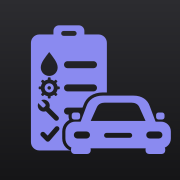
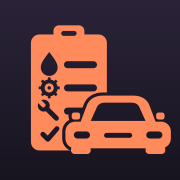
feat(web): Only Tools look (warm palette, Nunito, car orange)
The theme tokens now mirror only-tools-core/packages/ui/only-tools.css, so CarLog
matches the Only Tools landing and admin: warm paper background, plum ink, car orange
accent, Nunito, Only Tools radii and shadows. Category colours, hero tints, bar glass
and the app icons follow the same palette.

Changed region(s): [[0.1667, 0.1389, 0.9722, 0.8611]]

diff --git a/apps/web/src/theme/tokens.ts b/apps/web/src/theme/tokens.ts
@@ -1,48 +1,48 @@
-// iOS semantic colours (Human Interface Guidelines system palette) with CarLog's
-// indigo kept as the tint. Surfaces follow the "inset grouped" model: a grouped
-// background with flat white/charcoal cells on top, separated by translucent
-// hairlines rather than borders and shadows.
+// Only Tools design tokens (direction B "Конструктор"), CarLog's accent is the car orange.
+// Mirrors only-tools-core/packages/ui/only-tools.css: change colours there first, then here,
+// so every Only Tools app keeps one style. MUI needs literal colours (it derives hover and
+// alpha shades from them), which is why they are copied rather than read from CSS variables.
 export const tokens = {
   color: {
-    accent: '#5B5BD6',
-    accentHover: '#4A4AC4',
+    accent: '#FF7A45',
+    accentHover: '#E8642F',
     light: {
-      bg: '#F2F2F7',                      // systemGroupedBackground
-      surface: '#FFFFFF',                 // secondarySystemGroupedBackground
-      border: 'rgba(60, 60, 67, 0.29)',   // separator
-      fill: 'rgba(120, 120, 128, 0.12)',  // tertiarySystemFill (search fields, segmented tracks)
-      textPrimary: '#000000',
-      textSecondary: 'rgba(60, 60, 67, 0.6)',
-      textTertiary: 'rgba(60, 60, 67, 0.3)',
-      glass: 'rgba(255, 255, 255, 0.78)', // translucent bars
-      tint: '#5B5BD6',
-      success: '#34C759',
-      error: '#FF3B30',
-      warning: '#FF9500',
+      bg: '#FFF8F1',                      // --ot-bg: warm paper
+      surface: '#FFFFFF',                 // --ot-surface
+      border: '#EFE4D8',                  // --ot-line
+      fill: '#FDF3E8',                    // --ot-surface-2 (search fields, segmented tracks)
+      textPrimary: '#2A2140',             // --ot-ink: plum ink
+      textSecondary: '#71698A',           // --ot-mut
+      textTertiary: 'rgba(113, 105, 138, 0.55)',
+      glass: 'rgba(255, 253, 250, 0.92)', // --ot-bar
+      tint: '#FF7A45',                    // --ot-car
+      success: '#1A9A68',
+      error: '#D93A4A',
+      warning: '#C77700',
     },
     dark: {
-      bg: '#000000',
-      surface: '#1C1C1E',
-      border: 'rgba(84, 84, 88, 0.65)',
-      fill: 'rgba(118, 118, 128, 0.24)',
-      textPrimary: '#FFFFFF',
-      textSecondary: 'rgba(235, 235, 245, 0.6)',
-      textTertiary: 'rgba(235, 235, 245, 0.3)',
-      glass: 'rgba(28, 28, 30, 0.78)',
-      tint: '#8A8AF0',                    // indigo lifted for contrast on black
-      success: '#30D158',
-      error: '#FF453A',
-      warning: '#FF9F0A',
+      bg: '#17141F',
+      surface: '#221D2E',
+      border: '#342D44',
+      fill: '#1D1927',
+      textPrimary: '#F3EEFA',
+      textSecondary: '#A59CBA',
+      textTertiary: 'rgba(165, 156, 186, 0.55)',
+      glass: 'rgba(29, 25, 39, 0.92)',
+      tint: '#FF8A5C',
+      success: '#2FD08F',
+      error: '#FF6B7A',
+      warning: '#FFB547',
     },
-    success: '#34C759',
-    error: '#FF3B30',
-    warning: '#FF9500',
+    success: '#1A9A68',
+    error: '#D93A4A',
+    warning: '#C77700',
   },
   // sm: inputs/menus · md: dialogs · lg: cards (inset grouped cells) · sheet: phone bottom sheets
-  radius: { sm: 12, md: 28, lg: 20, sheet: 34 },
+  radius: { sm: 14, md: 24, lg: 20, sheet: 24 },
   shadow: {
-    sm: '0 1px 3px rgba(0,0,0,0.08)',
-    md: '0 8px 24px rgba(0,0,0,0.12), 0 1px 2px rgba(0,0,0,0.06)',
+    sm: '0 4px 14px -10px rgba(42, 33, 64, 0.3)',
+    md: '0 8px 24px -16px rgba(42, 33, 64, 0.35)',
   },
   // Motion: quiet confidence — things arrive decelerating, leave accelerating.
   // Animate only transform/opacity; user-initiated appearance only (never refetches).
@@ -53,9 +53,9 @@ export const tokens = {
       exit: 'cubic-bezier(0.4, 0, 1, 1)',     // accelerate — leaving
     },
   },
-  // System font first (SF Pro on Apple devices); Inter is the bundled fallback elsewhere.
+  // Nunito everywhere (self-hosted via @fontsource/nunito), rounded system fonts as the fallback.
   font: {
-    family: "-apple-system, BlinkMacSystemFont, 'SF Pro Text', 'SF Pro Display', 'Inter', system-ui, 'Segoe UI', Roboto, sans-serif",
-    rounded: "ui-rounded, 'SF Pro Rounded', -apple-system, BlinkMacSystemFont, 'Inter', system-ui, sans-serif",
+    family: "'Nunito', ui-rounded, 'SF Pro Rounded', system-ui, -apple-system, 'Segoe UI', sans-serif",
+    rounded: "'Nunito', ui-rounded, 'SF Pro Rounded', system-ui, -apple-system, sans-serif",
   },
 } as const;

diff --git a/apps/web/src/routes/Vehicle.tsx b/apps/web/src/routes/Vehicle.tsx
@@ -84,7 +84,7 @@ function StatTile({
           flexShrink: 0,
           color: 'primary.main',
           bgcolor: (theme) =>
-            theme.palette.mode === 'dark' ? 'rgba(91,91,214,0.16)' : 'rgba(91,91,214,0.08)',
+            theme.palette.mode === 'dark' ? 'rgba(255,122,69,0.16)' : 'rgba(255,122,69,0.08)',
         }}
       >
         {icon}
@@ -321,8 +321,8 @@ function VehicleDetail({ car }: { car: Car }) {
               sx={{
                 background: (theme) =>
                   theme.palette.mode === 'dark'
-                    ? 'linear-gradient(135deg, rgba(91,91,214,0.20) 0%, rgba(91,91,214,0.05) 55%, transparent 100%)'
-                    : 'linear-gradient(135deg, rgba(91,91,214,0.10) 0%, rgba(91,91,214,0.03) 55%, transparent 100%)',
+                    ? 'linear-gradient(135deg, rgba(255,122,69,0.20) 0%, rgba(255,122,69,0.05) 55%, transparent 100%)'
+                    : 'linear-gradient(135deg, rgba(255,122,69,0.10) 0%, rgba(255,122,69,0.03) 55%, transparent 100%)',
               }}
             >
               <CardContent sx={{ p: { xs: 2.5, sm: 3 }, pb: { xs: 2, sm: 2.5 } }}>
@@ -339,7 +339,7 @@ function VehicleDetail({ car }: { car: Car }) {
                       flexShrink: 0,
                       color: 'primary.main',
                       bgcolor: (theme) =>
-                        theme.palette.mode === 'dark' ? 'rgba(91,91,214,0.18)' : 'rgba(91,91,214,0.10)',
+                        theme.palette.mode === 'dark' ? 'rgba(255,122,69,0.18)' : 'rgba(255,122,69,0.10)',
                     }}
                   >
                     <DirectionsCarFilledIcon sx={{ fontSize: 30 }} />
@@ -570,8 +570,8 @@ function VehicleDetail({ car }: { car: Car }) {
             overflow: 'hidden',
             border: 1,
             borderColor: 'divider',
-            boxShadow: '0 6px 24px rgba(16,24,40,0.18)',
-            bgcolor: (theme) => (theme.palette.mode === 'dark' ? 'rgba(38,42,48,0.72)' : 'rgba(255,255,255,0.82)'),
+            boxShadow: tokens.shadow.md,
+            bgcolor: (theme) => (theme.palette.mode === 'dark' ? tokens.color.dark.glass : tokens.color.light.glass),
             backdropFilter: 'saturate(180%) blur(20px)',
             WebkitBackdropFilter: 'saturate(180%) blur(20px)',
           }}
@@ -596,7 +596,7 @@ function VehicleDetail({ car }: { car: Car }) {
                 // .Mui-selected — a bare `& .Mui-selected` would double-tint the label).
                 '&.Mui-selected': {
                   color: (theme) => (theme.palette.mode === 'dark' ? '#fff' : theme.palette.primary.main),
-                  bgcolor: (theme) => (theme.palette.mode === 'dark' ? 'rgba(255,255,255,0.12)' : 'rgba(91,91,214,0.12)'),
+                  bgcolor: (theme) => (theme.palette.mode === 'dark' ? 'rgba(255,255,255,0.12)' : 'rgba(255,122,69,0.12)'),
                 },
               },
               '& .MuiBottomNavigationAction-label': { fontSize: 10, mt: '3px' },
@@ -634,8 +634,8 @@ function VehicleDetail({ car }: { car: Car }) {
               display: 'grid',
               placeItems: 'center',
               color: 'primary.main',
-              boxShadow: '0 6px 24px rgba(16,24,40,0.18)',
-              bgcolor: (theme) => (theme.palette.mode === 'dark' ? 'rgba(38,42,48,0.72)' : 'rgba(255,255,255,0.82)'),
+              boxShadow: tokens.shadow.md,
+              bgcolor: (theme) => (theme.palette.mode === 'dark' ? tokens.color.dark.glass : tokens.color.light.glass),
               backdropFilter: 'saturate(180%) blur(20px)',
               WebkitBackdropFilter: 'saturate(180%) blur(20px)',
               transition: 'transform .1s ease',

diff --git a/apps/web/src/theme.ts b/apps/web/src/theme.ts
@@ -15,7 +15,7 @@ export const buildTheme = (mode: 'light' | 'dark'): Theme => {
   return createTheme({
     palette: {
       mode,
-      primary: { main: c.tint, dark: mode === 'dark' ? '#7373E0' : tokens.color.accentHover, contrastText: '#FFFFFF' },
+      primary: { main: c.tint, dark: tokens.color.accentHover, contrastText: '#FFFFFF' },
       success: { main: c.success },
       error: { main: c.error },
       warning: { main: c.warning },
@@ -27,16 +27,16 @@ export const buildTheme = (mode: 'light' | 'dark'): Theme => {
     typography: {
       fontFamily: tokens.font.family,
       // iOS text styles: Large Title / Title 2 / Headline / Body / Subheadline / Footnote.
-      h4: { fontSize: '2.125rem', lineHeight: 41 / 34, fontWeight: 700, letterSpacing: '0.01em' },
-      h5: { fontSize: '1.375rem', lineHeight: 28 / 22, fontWeight: 700, letterSpacing: '-0.01em' },
-      h6: { fontSize: '1.0625rem', lineHeight: 22 / 17, fontWeight: 600, letterSpacing: '-0.01em' },
-      subtitle1: { fontSize: '1.0625rem', lineHeight: 22 / 17, fontWeight: 600, letterSpacing: '-0.01em' },
-      subtitle2: { fontSize: '0.9375rem', lineHeight: 20 / 15, fontWeight: 600 },
+      h4: { fontSize: '1.75rem', lineHeight: 1.12, fontWeight: 900, letterSpacing: '-0.02em' },
+      h5: { fontSize: '1.375rem', lineHeight: 1.2, fontWeight: 900, letterSpacing: '-0.015em' },
+      h6: { fontSize: '1.0625rem', lineHeight: 1.25, fontWeight: 800 },
+      subtitle1: { fontSize: '1.0625rem', lineHeight: 1.25, fontWeight: 800 },
+      subtitle2: { fontSize: '0.9375rem', lineHeight: 20 / 15, fontWeight: 800 },
       body1: { fontSize: '1rem', lineHeight: 22 / 16, letterSpacing: '-0.01em', [PHONE]: { fontSize: '1.0625rem', lineHeight: 22 / 17 } },
       body2: { fontSize: '0.9375rem', lineHeight: 20 / 15, letterSpacing: '-0.01em' },
       caption: { fontSize: '0.8125rem', lineHeight: 18 / 13 },
       overline: { fontSize: '0.8125rem', lineHeight: 18 / 13, letterSpacing: '-0.01em', fontWeight: 400 },
-      button: { fontWeight: 600, letterSpacing: '-0.01em' },
+      button: { fontWeight: 800 },
     },
     components: {
       MuiCssBaseline: {
@@ -58,7 +58,7 @@ export const buildTheme = (mode: 'light' | 'dark'): Theme => {
         defaultProps: { disableElevation: true },
         styleOverrides: {
           // Capsule buttons; 44pt minimum touch target at the default size.
-          root: { textTransform: 'none', borderRadius: 999 },
+          root: { textTransform: 'none', borderRadius: tokens.radius.sm },
           sizeSmall: { minHeight: 32, paddingLeft: 14, paddingRight: 14 },
           sizeMedium: { minHeight: 44, paddingLeft: 20, paddingRight: 20 },
           sizeLarge: { minHeight: 50, paddingLeft: 24, paddingRight: 24, fontSize: '1.0625rem' },
@@ -164,7 +164,7 @@ export const buildTheme = (mode: 'light' | 'dark'): Theme => {
       },
       MuiChip: {
         styleOverrides: {
-          root: { borderRadius: 999, fontWeight: 600 },
+          root: { borderRadius: 999, fontWeight: 700 },
           filled: { backgroundColor: c.fill },
         },
       },

diff --git a/apps/web/src/lib/event-category.tsx b/apps/web/src/lib/event-category.tsx
@@ -7,18 +7,16 @@ import BuildIcon from '@mui/icons-material/Build';
 import CategoryIcon from '@mui/icons-material/Category';
 import type { EventCategory } from '@carlog/contracts';
 
-// One iOS system colour per category — the same hues the platform uses for its
-// own tags, so categories read as native beside the indigo tint. Each colour is
-// used as a saturated foreground on a low-opacity tint of itself (see
-// categoryTint), the same treatment the vehicle hero's StatTile uses. Brakes take
-// pink rather than the error red so an overdue badge never looks like a category.
+// One Only Tools palette colour per category (see only-tools.css). Each colour is used as
+// a saturated foreground on a low-opacity tint of itself (see categoryTint), the same
+// treatment the vehicle hero's StatTile uses.
 export const CATEGORY_META: Record<EventCategory, { color: string; Icon: SvgIconComponent }> = {
-  oil_change: { color: '#FF9500', Icon: OpacityIcon },   // systemOrange — oil is amber
-  tires: { color: '#32ADE6', Icon: TireRepairIcon },     // systemCyan — road/rubber
-  brakes: { color: '#FF2D55', Icon: PanToolIcon },        // systemPink — heat/stop, off the error red
-  inspection: { color: '#34C759', Icon: FactCheckIcon },  // systemGreen — the "checked/ok" family
-  repair: { color: '#007AFF', Icon: BuildIcon },          // systemBlue — mechanical work
-  other: { color: '#8E8E93', Icon: CategoryIcon },        // systemGray
+  oil_change: { color: '#C77700', Icon: OpacityIcon },   // Only Tools warn — oil is amber
+  tires: { color: '#7B5CFF', Icon: TireRepairIcon },     // Only Tools violet — road/rubber
+  brakes: { color: '#D93A4A', Icon: PanToolIcon },        // Only Tools bad — heat/stop
+  inspection: { color: '#1A9A68', Icon: FactCheckIcon },  // Only Tools good — the "checked/ok" family
+  repair: { color: '#FF7A45', Icon: BuildIcon },          // CarLog orange — mechanical work
+  other: { color: '#71698A', Icon: CategoryIcon },        // Only Tools muted
 };
 
 // Low-opacity wash of a category colour for icon tiles / chip fills. Deeper in

diff --git a/apps/web/src/routes/PublicVehicle.tsx b/apps/web/src/routes/PublicVehicle.tsx
@@ -60,8 +60,8 @@ function PublicHero({ car }: { car: PublicCar }) {
         sx={{
           background: (theme) =>
             theme.palette.mode === 'dark'
-              ? 'linear-gradient(135deg, rgba(91,91,214,0.20) 0%, rgba(91,91,214,0.05) 55%, transparent 100%)'
-              : 'linear-gradient(135deg, rgba(91,91,214,0.10) 0%, rgba(91,91,214,0.03) 55%, transparent 100%)',
+              ? 'linear-gradient(135deg, rgba(255,122,69,0.20) 0%, rgba(255,122,69,0.05) 55%, transparent 100%)'
+              : 'linear-gradient(135deg, rgba(255,122,69,0.10) 0%, rgba(255,122,69,0.03) 55%, transparent 100%)',
         }}
       >
         <CardContent sx={{ p: { xs: 2.5, sm: 3 } }}>
@@ -75,7 +75,7 @@ function PublicHero({ car }: { car: PublicCar }) {
                 placeItems: 'center',
                 flexShrink: 0,
                 color: 'primary.main',
-                bgcolor: (theme) => (theme.palette.mode === 'dark' ? 'rgba(91,91,214,0.18)' : 'rgba(91,91,214,0.10)'),
+                bgcolor: (theme) => (theme.palette.mode === 'dark' ? 'rgba(255,122,69,0.18)' : 'rgba(255,122,69,0.10)'),
               }}
             >
               <DirectionsCarFilledIcon sx={{ fontSize: 30 }} />

diff --git a/apps/web/src/routes/Profile.tsx b/apps/web/src/routes/Profile.tsx
@@ -55,7 +55,7 @@ function SectionTitle({ icon, title }: { icon: React.ReactNode; title: string })
           placeItems: 'center',
           color: 'primary.main',
           bgcolor: (theme) =>
-            theme.palette.mode === 'dark' ? 'rgba(91,91,214,0.16)' : 'rgba(91,91,214,0.08)',
+            theme.palette.mode === 'dark' ? 'rgba(255,122,69,0.16)' : 'rgba(255,122,69,0.08)',
         }}
       >
         {icon}
@@ -99,8 +99,8 @@ export function Profile() {
               sx={{
                 background: (theme) =>
                   theme.palette.mode === 'dark'
-                    ? 'linear-gradient(135deg, rgba(91,91,214,0.20) 0%, rgba(91,91,214,0.05) 55%, transparent 100%)'
-                    : 'linear-gradient(135deg, rgba(91,91,214,0.10) 0%, rgba(91,91,214,0.03) 55%, transparent 100%)',
+                    ? 'linear-gradient(135deg, rgba(255,122,69,0.20) 0%, rgba(255,122,69,0.05) 55%, transparent 100%)'
+                    : 'linear-gradient(135deg, rgba(255,122,69,0.10) 0%, rgba(255,122,69,0.03) 55%, transparent 100%)',
               }}
             >
               <CardContent sx={{ p: { xs: 2.5, sm: 3 } }}>

diff --git a/apps/web/index.html b/apps/web/index.html
@@ -1,9 +1,9 @@
 <!doctype html>
-<html lang="en">
+<html lang="en" data-app="car">
   <head>
     <meta charset="UTF-8" />
     <meta name="viewport" content="width=device-width, initial-scale=1.0" />
-    <meta name="theme-color" content="#5B5BD6" />
+    <meta name="theme-color" content="#FF7A45" />
     <meta name="robots" content="noindex" />
     <link rel="icon" href="/icons/icon.svg" type="image/svg+xml" />
     <link rel="icon" type="image/png" sizes="192x192" href="/icons/icon-192.png" />

diff --git a/apps/web/vite.config.ts b/apps/web/vite.config.ts
@@ -62,8 +62,8 @@ export default defineConfig({
         start_url: '/garage',
         scope: '/',
         display: 'standalone',
-        theme_color: '#5B5BD6',
-        background_color: '#F2F2F7',
+        theme_color: '#FF7A45',
+        background_color: '#FFF8F1',
         icons: [
           { src: '/icons/icon-192.png', sizes: '192x192', type: 'image/png', purpose: 'any' },
           { src: '/icons/icon-512.png', sizes: '512x512', type: 'image/png', purpose: 'any' },

diff --git a/apps/web/src/main.tsx b/apps/web/src/main.tsx
@@ -1,7 +1,8 @@
-import '@fontsource/inter/400.css';
-import '@fontsource/inter/500.css';
-import '@fontsource/inter/600.css';
-import '@fontsource/inter/700.css';
+import '@fontsource/nunito/500.css';
+import '@fontsource/nunito/600.css';
+import '@fontsource/nunito/700.css';
+import '@fontsource/nunito/800.css';
+import '@fontsource/nunito/900.css';
 import './i18n';
 import { lazy, StrictMode, Suspense } from 'react';
 import { createRoot } from 'react-dom/client';
